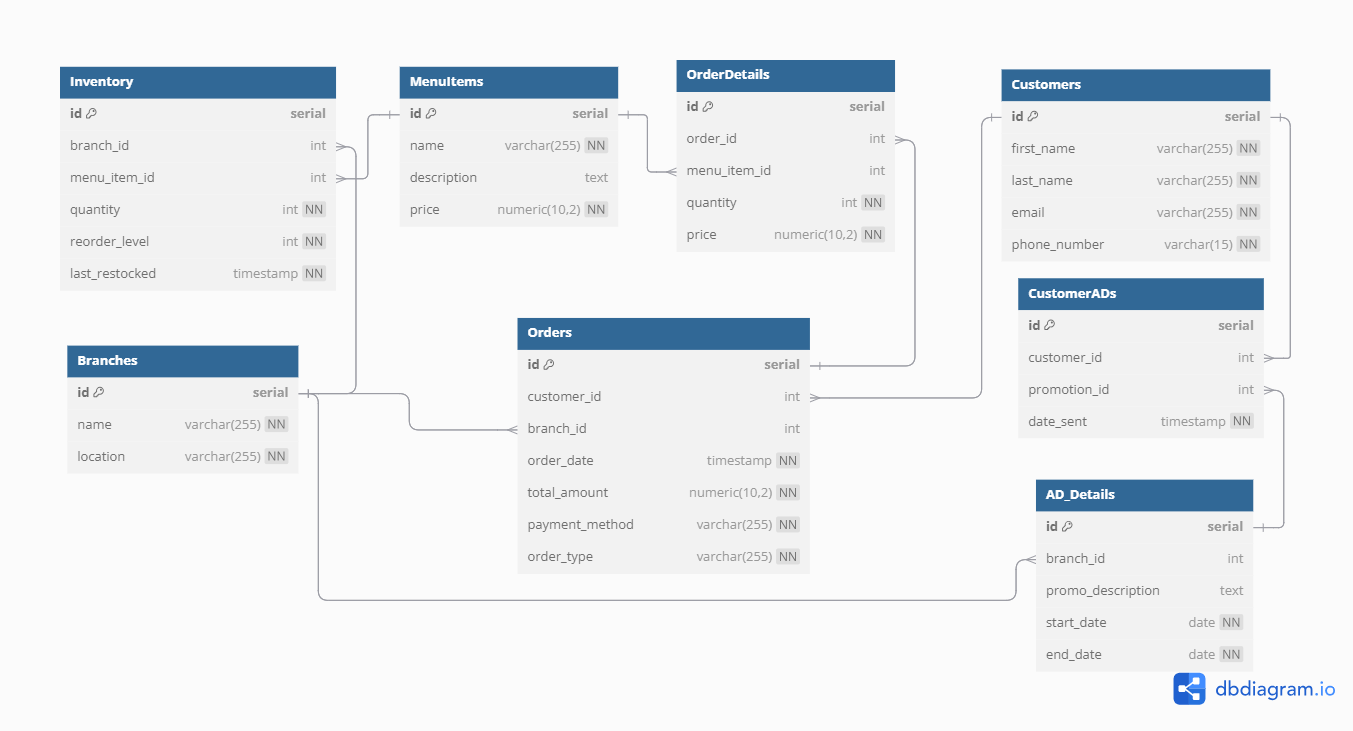
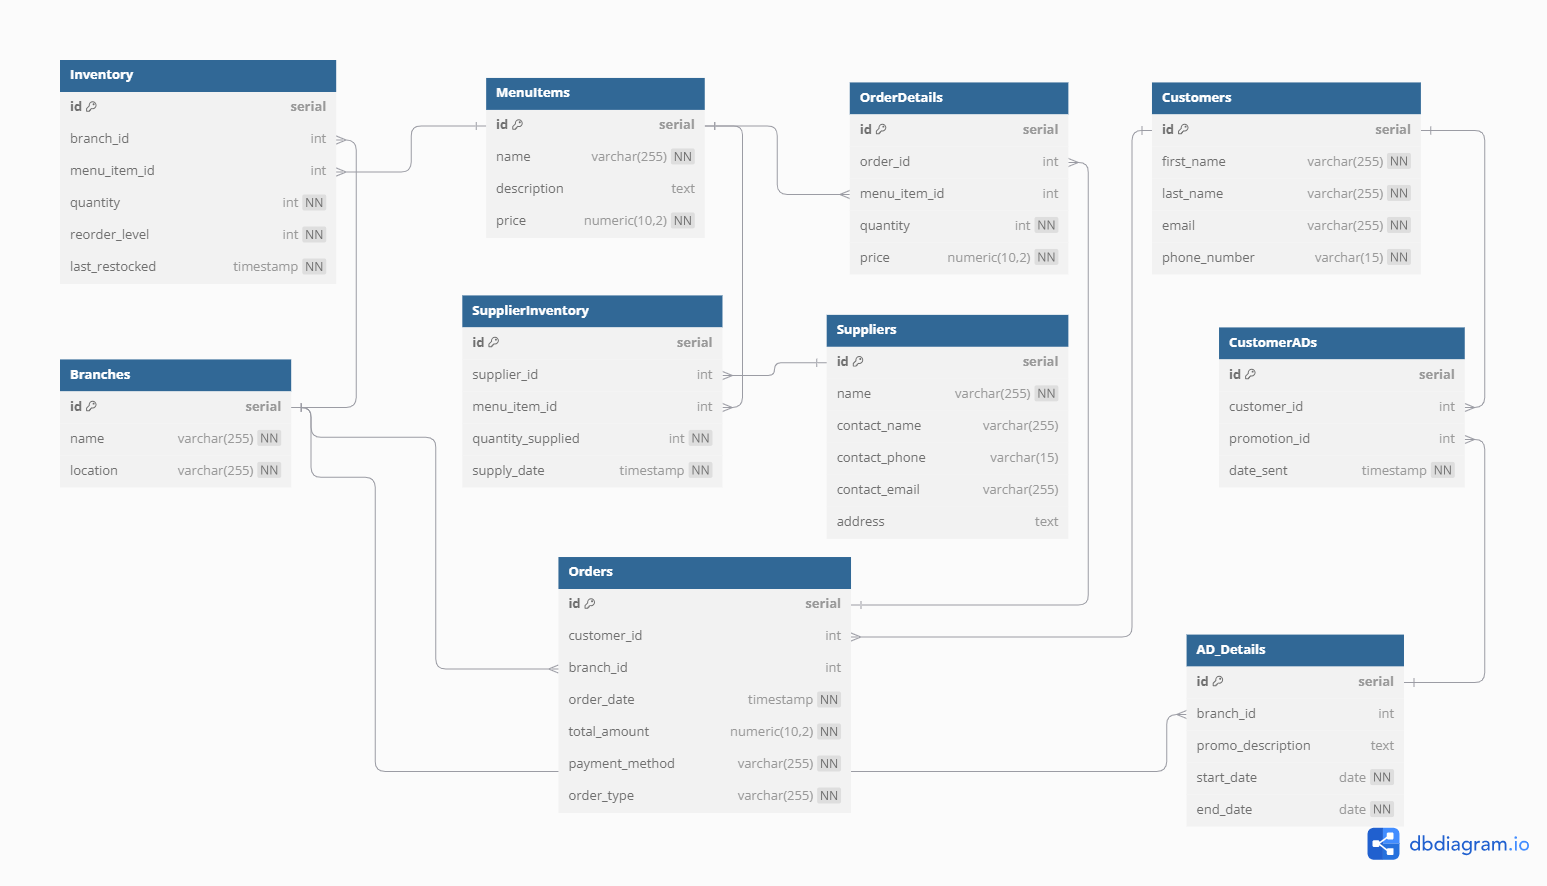
thirdcommit

diff --git a/README.md b/README.md
@@ -1,71 +1,62 @@
 ## README: Fufu Republic Inventory and Stock Management Dimensional Model
 
 ### Overview
-This project presents a **dimensional model** for addressing the **Inventory and Stock Management** challenges faced by Fufu Republic, a popular restaurant chain in Nigeria. The solution is designed to optimize inventory levels, track stock movements, and improve customer satisfaction by ensuring popular items are always available across multiple branches. The dimensional model also supports analysis of sales patterns, supplier performance, and stock trends.
+This project presents a solution to address the **Inventory and Stock Management** challenges faced by Fufu Republic, a popular restaurant chain in Nigeria. The solution optimizes inventory levels, tracks stock movements, and improves customer satisfaction by ensuring the availability of popular menu items across branches.
+
+---
+I created a database, and then created tables that are neccessary for the tasks, such as; customers, orders, order details, branch, CustomerADs, AD_details, suppliers, supplier inventory, menu-items and inventory.
+Here’s how the ERD looks:
+
+![ERD Diagram](./ERD_Fufu_Republic.png)
 
 ---
 
 ### Business Challenges Addressed
 
 1. **Inventory Management**: 
-   - Tracking stock levels across branches.
-   - Identifying stock shortages and optimizing restocking schedules to reduce waste and prevent stockouts.
-   - Monitoring how sales impact inventory and adjusting stock orders accordingly.
+   - Track stock levels and avoid stockouts.
+   - Identify items that need frequent restocking.
+   - Prevent overstocking and reduce waste.
 
 2. **Sales Demand Analysis**:
-   - Understanding customer demand at each branch and for each menu item.
-   - Analyzing trends based on sales data to forecast future stock needs and optimize inventory.
+   - Understand customer demand patterns and their impact on stock.
+   - Ensure stock levels are aligned with expected sales trends.
 
 3. **Supplier Management**:
-   - Tracking supplier performance in restocking inventory.
-   - Linking stock transactions to suppliers to evaluate which suppliers contribute to efficient stock management.
+   - Track supplier performance to ensure timely and sufficient restocking.
 
 4. **Customer Satisfaction**:
-   - Preventing stockouts of popular items, ensuring a better customer experience across all branches.
+   - Ensure that popular items are always available by preventing stockouts.
+
 
 ---
 
 ### Business Process: **Inventory and Stock Management**
 
-The core business process in this solution is **Inventory and Stock Management**, which focuses on recording stock transactions (restocks, sales, and adjustments) and maintaining optimal stock levels at each branch. This model provides Fufu Republic with insights to make data-driven decisions related to inventory replenishment, waste reduction, and stock allocation.
+The business process in focus is **Inventory and Stock Management**, which captures stock movements (sales, restocks, and adjustments) and ensures branches are well-stocked with the right items based on demand.
 
 ---
 
-### Business Questions:
-The dimensional model for Inventory and Stock Management aims to answer the following key business questions:
+### DIMENSIONAL MODEL
 
-1. **What are the current stock levels for each menu item at each branch?**
-2. **Which menu items experience frequent stock shortages across branches?**
-3. **How frequently is inventory restocked, and which items are restocked most often?**
-4. **Which suppliers are responsible for the majority of the restocked items, and how reliable are they?**
-5. **How do sales and customer demand impact stock levels across different branches and over time?**
-6. **What is the total value of stock transactions (sales and restocks) for each branch?**
+The **Dimensional Model** visually represents the relationships between the key entities involved in **Inventory and Stock Management**. It serves as a blueprint for understanding how the **fact table** (which captures stock transactions) is connected to various **dimension tables** (which provide descriptive information for in-depth analysis).
 
----
+The Model captures the following key relationships:
+- **Branches**: Where the stock is managed.
+- **Menu Items**: The products being sold and restocked.
+- **Transaction Types**: The nature of the stock transaction (sale, restock, or adjustment).
+- **Suppliers**: The external vendors responsible for providing stock.
+- **Dates**: When transactions occurred to track trends over time.
 
-### Grain:
-The **grain** of the fact table is **at the level of individual stock transactions**, where each row represents a single stock movement (e.g., a restock or sale) for a specific menu item at a particular branch.
+The diagram showing the relationships between the **fact table** and **dimension tables** looks like this:
 
----
+![Dimension Model Diagram](./dbdiagram_DimModel.png)
 
-### Dimensional Model
-
-The dimensional model is designed using **Star Schema** architecture, where the **Fact Table** captures stock transaction data, and the **Dimension Tables** provide descriptive information to analyze the transactions.
-
-#### Fact Table
-The **Fact Table** (`Inventory_Transactions_Fact`) holds the quantitative data representing each stock transaction, such as the number of items added or removed from inventory, the branch where the transaction occurred, and the type of transaction (e.g., sale, restock).
-
-#### Dimension Tables
-The **Dimension Tables** provide context for the facts, allowing for in-depth analysis. Each dimension describes an aspect of the stock transaction:
-- **Branch Dimension**: Represents each branch where inventory is managed.
-- **Menu Item Dimension**: Describes the menu items being tracked in inventory.
-- **Transaction Type Dimension**: Identifies whether the transaction was a sale, restock, or adjustment.
-- **Supplier Dimension**: Represents the suppliers who provide stock for restocks.
-- **Date Dimension**: Tracks when stock changes occur for time-based analysis.
+It illustrates the **star schema** structure, with the `Inventory_Transactions_Fact` table at the center, linked to multiple dimensions like `Branch_Dimension`, `Menu_Item_Dimension`, `Transaction_Type_Dimension`, and others.
 
 ---
 
-### Data Model Design
+### Dimensional Model Design
 
 #### Fact Table: `Inventory_Transactions_Fact`
 
@@ -78,73 +69,62 @@ The **Dimension Tables** provide context for the facts, allowing for in-depth an
 | supplier_id         | INT         | Foreign key to `Supplier_Dimension` (optional)    |
 | date_id             | INT         | Foreign key to `Date_Dimension`                   |
 | quantity            | INT         | Number of items added or subtracted               |
-| unit_price          | NUMERIC     | Unit price at the time of transaction             |
+| unit_price          | NUMERIC     | Unit price at the time of the transaction         |
 | total_amount        | NUMERIC     | Total value of the transaction                    |
 
 ---
 
 #### Dimension Tables
 
-##### 1. `Branch_Dimension`
+1. **Branch_Dimension**:
+   Describes the branch where stock transactions occur.
 
-| Column      | Data Type | Description                  |
-|-------------|-----------|------------------------------|
-| branch_id   | INT       | Primary key                  |
-| branch_name | VARCHAR   | Name of the branch            |
-| location    | VARCHAR   | Branch location               |
+   | Column      | Data Type | Description                  |
+   |-------------|-----------|------------------------------|
+   | branch_id   | INT       | Primary key                  |
+   | branch_name | VARCHAR   | Name of the branch            |
+   | location    | VARCHAR   | Branch location               |
 
-##### 2. `Menu_Item_Dimension`
+2. **Menu_Item_Dimension**:
+   Describes the menu items being sold and tracked.
 
-| Column        | Data Type | Description                 |
-|---------------|-----------|-----------------------------|
-| menu_item_id  | INT       | Primary key                 |
-| name          | VARCHAR   | Name of the menu item        |
-| description   | TEXT      | Description of the item      |
-| category      | VARCHAR   | Category of the menu item    |
-| price         | NUMERIC   | Unit price of the item       |
+   | Column        | Data Type | Description                 |
+   |---------------|-----------|-----------------------------|
+   | menu_item_id  | INT       | Primary key                 |
+   | name          | VARCHAR   | Name of the menu item        |
+   | description   | TEXT      | Description of the item      |
+   | category      | VARCHAR   | Category of the menu item    |
+   | price         | NUMERIC   | Unit price of the item       |
 
-##### 3. `Transaction_Type_Dimension`
+3. **Transaction_Type_Dimension**:
+   Captures the type of transaction (e.g., restock, sale).
 
-| Column             | Data Type | Description                       |
-|--------------------|-----------|-----------------------------------|
-| transaction_type_id | INT       | Primary key                       |
-| transaction_type    | VARCHAR   | Type of transaction (sale, restock, adjustment) |
+   | Column             | Data Type | Description                       |
+   |--------------------|-----------|-----------------------------------|
+   | transaction_type_id | INT       | Primary key                       |
+   | transaction_type    | VARCHAR   | Type of transaction (sale, restock, adjustment) |
 
-##### 4. `Supplier_Dimension`
+4. **Supplier_Dimension**:
+   Represents the suppliers responsible for restocking.
 
-| Column        | Data Type | Description                 |
-|---------------|-----------|-----------------------------|
-| supplier_id   | INT       | Primary key                 |
-| supplier_name | VARCHAR   | Supplier’s name             |
-| contact_info  | VARCHAR   | Supplier’s contact details  |
+   | Column        | Data Type | Description                 |
+   |---------------|-----------|-----------------------------|
+   | supplier_id   | INT       | Primary key                 |
+   | supplier_name | VARCHAR   | Supplier’s name             |
+   | contact_info  | VARCHAR   | Supplier’s contact details  |
 
-##### 5. `Date_Dimension`
+5. **Date_Dimension**:
+   Represents the date of the stock transaction for time-based analysis.
 
-| Column      | Data Type | Description                 |
-|-------------|-----------|-----------------------------|
-| date_id     | INT       | Primary key                 |
-| day         | INT       | Day of the month            |
-| month       | INT       | Month of the year           |
-| quarter     | INT       | Quarter of the year         |
-| year        | INT       | Year                        |
-| day_of_week | VARCHAR   | Day of the week             |
-
-
-### How to Use This Model
-
-1. **Analyze Stock Levels**:
-   - Use the model to track stock levels across all branches and menu items.
-   - Identify items running low on stock and prevent stockouts.
-
-2. **Optimize Restocking**:
-   - Analyze restocking patterns to ensure popular items are restocked regularly.
-   - Use supplier data to evaluate which suppliers deliver inventory in a timely and efficient manner.
-
-3. **Customer Demand Insights**:
-   - Use sales data to understand how customer demand impacts inventory and optimize stock ordering based on historical trends.
-
----
+   | Column      | Data Type | Description                 |
+   |-------------|-----------|-----------------------------|
+   | date_id     | INT       | Primary key                 |
+   | day         | INT       | Day of the month            |
+   | month       | INT       | Month of the year           |
+   | quarter     | INT       | Quarter of the year         |
+   | year        | INT       | Year                        |
+   | day_of_week | VARCHAR   | Day of the week             |
 
 ### Conclusion
 
-This **Inventory and Stock Management Dimensional Model** offers a comprehensive solution to the inventory challenges faced by Fufu Republic. It enables the business to track inventory in real-time, optimize restocking processes, and use data-driven insights to ensure stock availability, minimize waste, and improve customer satisfaction. The model is scalable and can be easily adapted for future enhancements.
+This **Inventory and Stock Management Dimensional Model** addresses the critical challenges faced by Fufu Republic in managing inventory across branches. By using the ERD as a guide, this solution helps visualize relationships between stock transactions and key entities like branches, menu items, and suppliers. The model offers actionable insights to optimize restocking, minimize waste, and ensure that popular items are always available to enhance customer satisfaction.
